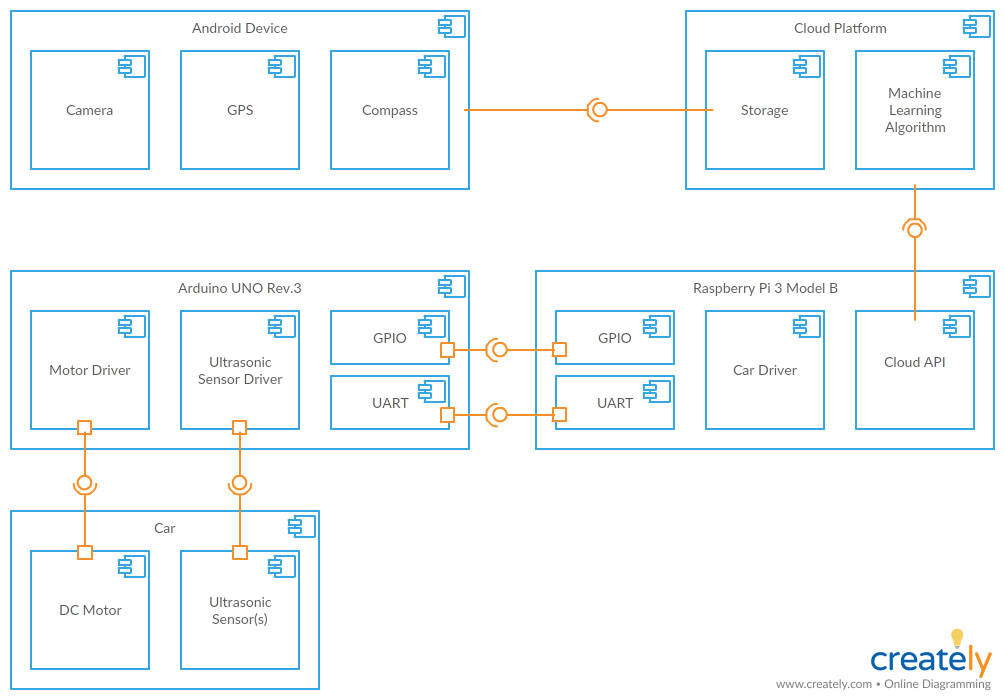
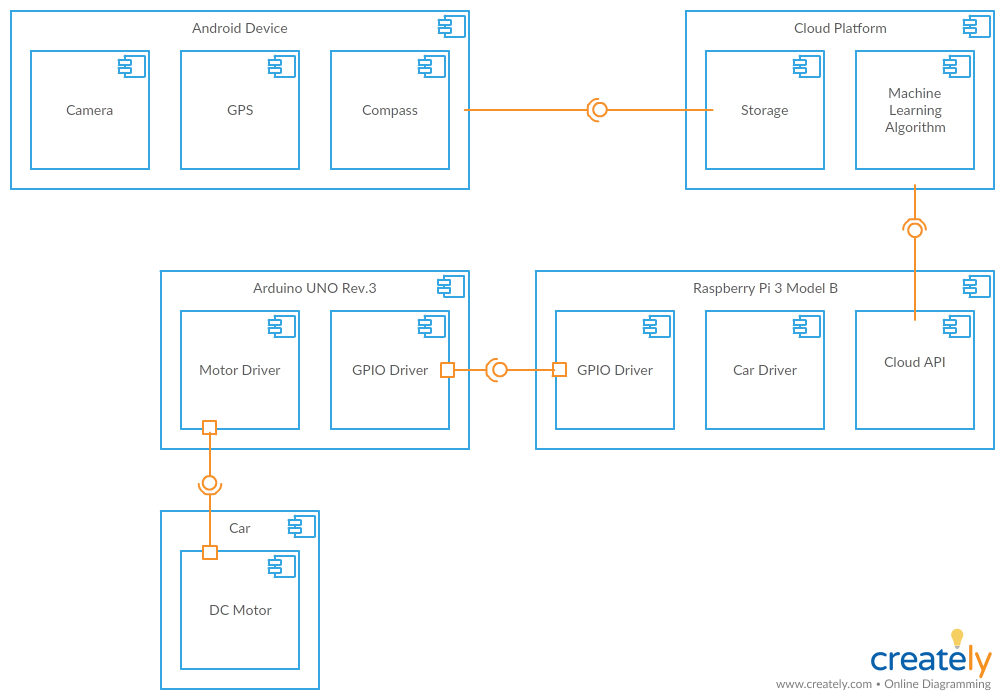
Update SDS

diff --git a/SDS.md b/SDS.md
@@ -47,7 +47,7 @@ The hardware used in this project and described in this document are:
 * Arduino Uno used for controlling the car speed and turning radius
 * Ultrasonic sensors to detect objects in front of the car
 * Raspberry Pi used for capturing and transmission of camera data and communicating with Google Cloud Platform
-* PiCamera used for capturing objects in front of the car
+* Android device used for collecting camera, GPS and compass information.
 
 ## 1.2 Scope of the development project
 
@@ -101,37 +101,37 @@ The design has been made clear using class diagrams and sequence diagrams.
 
 ## 2.1 Overview of modules and components
 
-1. Arduino UNO Rev. 3
+1. Android Device
 
-    * **Communication Driver:** This software driver is responsible for the UART communication link between the Arduino and Raspberry Pi. It specifies the baud rate as well as the format of the data sent.
+    * **Camera:** The camera module is responsible for capturing what is right in front of the car. This camera data is processed by the machine learning algorithm to judge the car's environment.
+
+    * **GPS:** The GPS module is used to capture the car's current location and help it navigate through the location points provided by Google Places API.
+
+    * **Compass:** The compass module provides the car's current heading direction and helps correct car's direction of motion.
+
+2. Arduino UNO Rev. 3
+
+    * **GPIO Driver:** This software driver is responsible for parallel communication with Raspberry Pi. It is used for receiving speed and turn data from Raspberry Pi, and for running the motors at desired speed and direction.
 
     * **Motor Driver:** This software driver is responsible for running the car's motors at the desired speed and direction. It also controls the car's degree and direction of turn.
 
-    * **Ultrasonic Sensor Driver:** This software driver is responsible for running the three ultrasonic sensors attached on to the car. This driver ensures that the distance data is captured every 50ms using a timer interrupt on the Arduino.
-
-2. Car
+3. Car
 
     * **DC Motor:** These motors are responsible for actually running the car.
 
-    * **Ultrasonic Sensors:** These sensors collect distance data from the front, front-left and front-right sides of the car. These sensors use ultrasonic signals to collect data, which is then sent to the Arduino for processing.
+4. Cloud Platform
 
-3. Cloud Platform
+    * **Machine Learning Algorithm:** The machine learning algorithm is at the heart of this project. The model processes visual data from the Android device to judge the car's environment. This judgement is used by the Raspberry Pi to control the car's motion.
 
-    * **Machine Learning Algorithm:** The machine learning algorithm is at the heart of this project. The model processes visual data from the PiCamera and distance data from the ultrasonic sensors to judge the car's environment. This judgement is used by the Raspberry Pi to control the car's motion.
-
-    * **Storage:** Apart from the actual machine learning algorithm, the cloud platform also provides with a big and reliable storage space for storing all the training and testing data for the algorithm.
-
-4. PiCamera
-
-    The **PiCamera** module will be used to capture 800x600 at 60fps for quick capture and reduced photo size. The PiCamera data is processed by the machine learning algorithm to judge the car's environment.
+    * **Storage:** Apart from the actual machine learning algorithm, the cloud platform also provides with a big and reliable storage space for storing all the training and testing data for the algorithm. It is also used for storing location and heading information from the Android device.
 
 5. Raspberry Pi 3 Model B
 
-     * **Communication Driver:** This software driver is responsible for the UART communication link between the Arduino and Raspberry Pi. It specifies the baud rate as well as processes the received data into the required format.
+     * **Car Driver:** This software module is responsible for actually running the car via Arduino. It takes classification and correction data from GCP and sends required signals to the Arduino to drive the car.
 
-     * **Machine Learning API:** This API enables the Raspberry Pi to communicate with the machine learning algorithm running in the cloud. It provides support for sending image data and receiving classification information for it.
+     * **Cloud API:** This API is used by the Raspberry Pi to communicate with the cloud platform.
 
-     * **PiCamera Driver:** This software driver is responsible for communicating with PiCamera module and extracting image data from it for use for classification.
+     * **GPIO Driver:** This software driver is responsible for parallel communication with Arduino. It is used for sending speed and turn data to the Arduino, which then actuates the car's motors.
 
 ## 2.2 Structure and relationships
 
